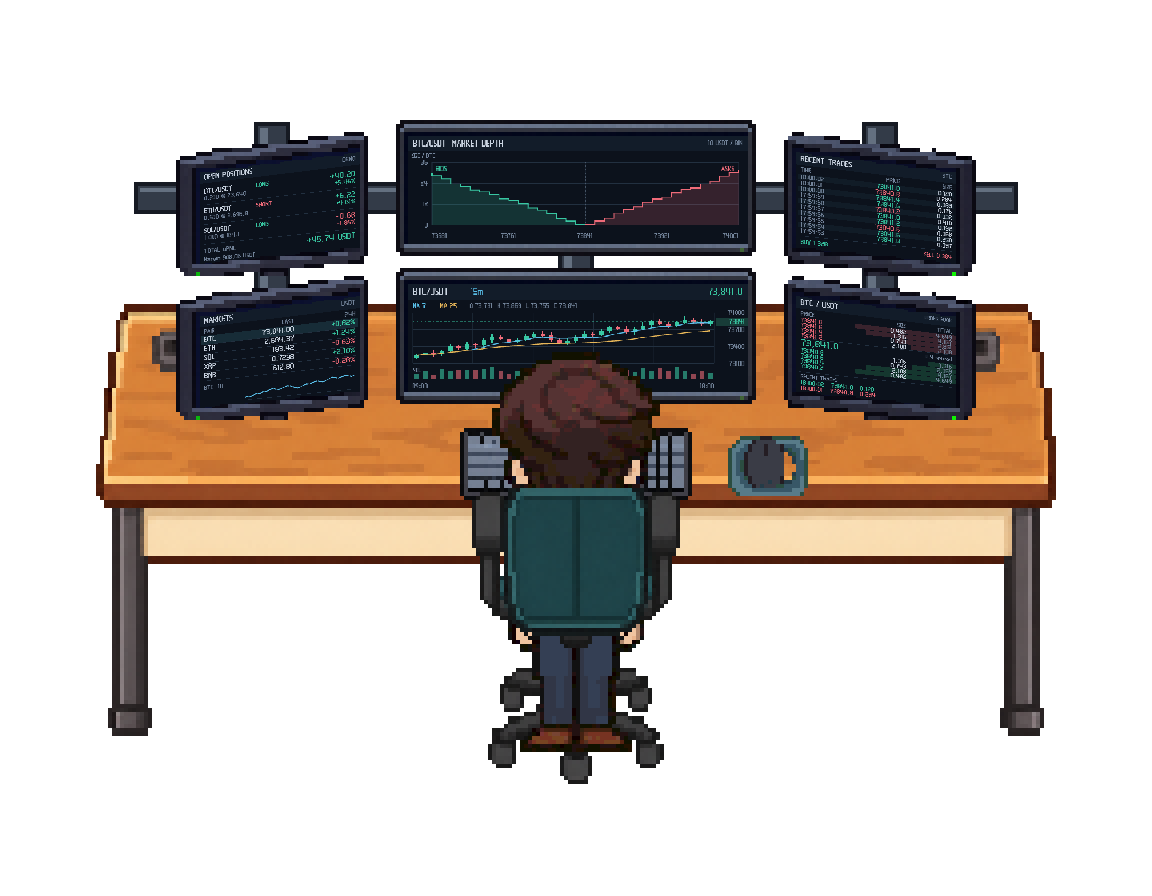
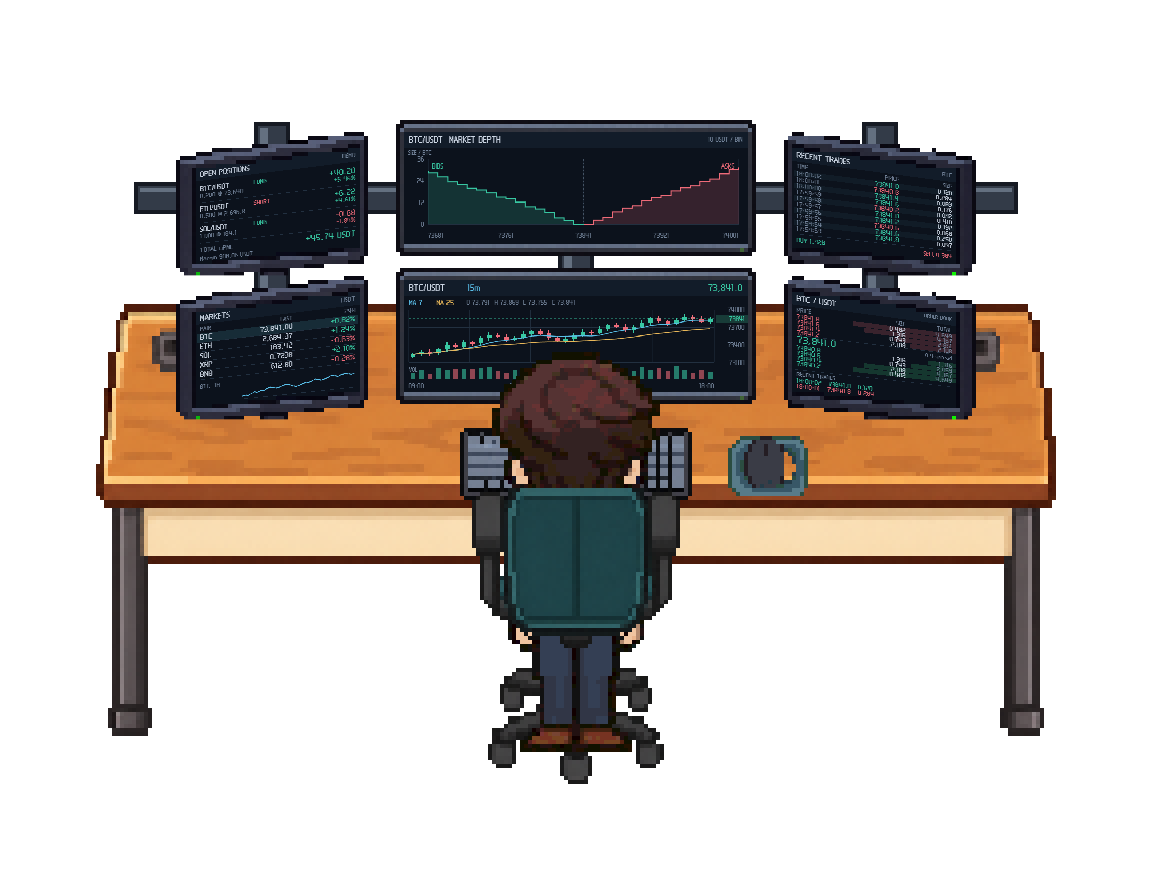
Publish wide game layout, position cards, CoinWorld and aligned monitors

diff --git a/btcoffice/art/furniture/trading-room/assets.js b/btcoffice/art/furniture/trading-room/assets.js
@@ -1,1 +1,1 @@
-window.TRADING_ROOM_ASSETS={"assets": [{"anchor": [128, 126], "facing": "N", "file": "desks/Desk_Trading_N_Full.png", "height": 128, "id": "TR_Desk_Trading_N_Full", "origin": "image_gen", "source": "source/Desk_Trading_N_Full.png", "source_crop": [20, 178, 1731, 598], "width": 256, "preview_only": true}, {"anchor": [32, 86], "facing": "N", "file": "chairs/Chair_Trading_N_Full.png", "height": 88, "id": "TR_Chair_Trading_N_Full", "origin": "image_gen", "source": "source/Chair_Trading_N_Full.png", "source_crop": [233, 630, 603, 789], "width": 64, "preview_only": true}, {"anchor": [32, 86], "facing": "N", "file": "chairs/Chair_Visitor_N_Full.png", "height": 88, "id": "TR_Chair_Visitor_N_Full", "origin": "image_gen", "source": "source/Chair_Visitor_N_Full.png", "source_crop": [143, 612, 782, 773], "width": 64, "preview_only": true}, {"anchor": [32, 46], "canvas_group": "TR_Monitor_Trading_Front", "facing": "S", "file": "monitors/Monitor_Trading_Front_Housing.png", "height": 48, "id": "TR_Monitor_Trading_Front_Housing", "layer": "Housing", "screen_base": "monitors/Monitor_Trading_Front_ScreenBase.png", "screen_mask": "monitors/Monitor_Trading_Front_ScreenMask.png", "screen_quad": [[7, 8], [58, 8], [58, 35], [7, 35]], "width": 64}, {"anchor": [48, 46], "canvas_group": "TR_Monitor_Trading_Wide_Front", "facing": "S", "file": "monitors/Monitor_Trading_Wide_Front_Housing.png", "height": 48, "id": "TR_Monitor_Trading_Wide_Front_Housing", "layer": "Housing", "screen_base": "monitors/Monitor_Trading_Wide_Front_ScreenBase.png", "screen_mask": "monitors/Monitor_Trading_Wide_Front_ScreenMask.png", "screen_quad": [[6, 8], [91, 8], [91, 35], [6, 35]], "width": 96}, {"anchor": [28, 46], "canvas_group": "TR_Monitor_Trading_Angled_SE", "facing": "SE", "file": "monitors/Monitor_Trading_Angled_SE_Housing.png", "height": 48, "id": "TR_Monitor_Trading_Angled_SE_Housing", "layer": "Housing", "screen_base": "monitors/Monitor_Trading_Angled_SE_ScreenBase.png", "screen_mask": "monitors/Monitor_Trading_Angled_SE_ScreenMask.png", "screen_quad": [[7, 9], [47, 14], [47, 37], [7, 33]], "width": 56}, {"anchor": [28, 46], "canvas_group": "TR_Monitor_Trading_Angled_SW", "facing": "SW", "file": "monitors/Monitor_Trading_Angled_SW_Housing.png", "height": 48, "id": "TR_Monitor_Trading_Angled_SW_Housing", "layer": "Housing", "screen_base": "monitors/Monitor_Trading_Angled_SW_ScreenBase.png", "screen_mask": "monitors/Monitor_Trading_Angled_SW_ScreenMask.png", "screen_quad": [[10, 14], [50, 9], [50, 33], [10, 37]], "width": 56}, {"anchor": [32, 22], "facing": "N", "file": "input_devices/Keyboard_Trading_N.png", "height": 24, "id": "TR_Keyboard_Trading_N", "origin": "image_gen", "source": "source/Keyboard_Trading_N.png", "source_crop": [191, 168, 1602, 513], "width": 64}, {"anchor": [320, 222], "canvas_group": "TR_NewsWall", "facing": "S", "file": "wall/NewsWall_Frame.png", "height": 224, "id": "TR_NewsWall_Frame", "layer": "Frame", "screen_base": "wall/NewsWall_ScreenBase.png", "screen_mask": "wall/NewsWall_ScreenMask.png", "screen_quad": [[24, 32], [616, 32], [616, 185], [24, 185]], "width": 640}, {"anchor": [128, 126], "canvas_group": "TR_DESK_N", "facing": "N", "file": "desks/Desk_Trading_N_Desktop.png", "height": 128, "id": "TR_Desk_Trading_N_Desktop", "layer": "Desktop", "width": 256}, {"anchor": [128, 126], "canvas_group": "TR_DESK_N", "facing": "N", "file": "desks/Desk_Trading_N_FrontPanel.png", "height": 128, "id": "TR_Desk_Trading_N_FrontPanel", "layer": "FrontPanel", "width": 256}, {"anchor": [128, 126], "canvas_group": "TR_DESK_N", "facing": "N", "file": "desks/Desk_Trading_N_Legs.png", "height": 128, "id": "TR_Desk_Trading_N_Legs", "layer": "Legs", "width": 256}, {"anchor": [32, 86], "canvas_group": "TR_Chair_Trading_N", "facing": "N", "file": "chairs/Chair_Trading_N_Frame.png", "height": 88, "id": "TR_Chair_Trading_N_Frame", "layer": "Frame", "width": 64}, {"anchor": [32, 86], "canvas_group": "TR_Chair_Trading_N", "facing": "N", "file": "chairs/Chair_Trading_N_Cushion.png", "height": 88, "id": "TR_Chair_Trading_N_Cushion", "layer": "Cushion", "width": 64}, {"anchor": [32, 86], "canvas_group": "TR_Chair_Trading_N", "facing": "N", "file": "chairs/Chair_Trading_N_Backrest.png", "height": 88, "id": "TR_Chair_Trading_N_Backrest", "layer": "Backrest", "width": 64}, {"anchor": [32, 86], "canvas_group": "TR_Chair_Trading_N", "facing": "N", "file": "chairs/Chair_Trading_N_Armrests.png", "height": 88, "id": "TR_Chair_Trading_N_Armrests", "layer": "Armrests", "width": 64}, {"anchor": [32, 86], "canvas_group": "TR_Chair_Visitor_N", "facing": "N", "file": "chairs/Chair_Visitor_N_Frame.png", "height": 88, "id": "TR_Chair_Visitor_N_Frame", "layer": "Frame", "width": 64}, {"anchor": [32, 86], "canvas_group": "TR_Chair_Visitor_N", "facing": "N", "file": "chairs/Chair_Visitor_N_Cushion.png", "height": 88, "id": "TR_Chair_Visitor_N_Cushion", "layer": "Cushion", "width": 64}, {"anchor": [32, 86], "canvas_group": "TR_Chair_Visitor_N", "facing": "N", "file": "chairs/Chair_Visitor_N_Backrest.png", "height": 88, "id": "TR_Chair_Visitor_N_Backrest", "layer": "Backrest", "width": 64}, {"anchor": [32, 86], "canvas_group": "TR_Chair_Visitor_N", "facing": "N", "file": "chairs/Chair_Visitor_N_Armrests.png", "height": 88, "id": "TR_Chair_Visitor_N_Armrests", "layer": "Armrests", "width": 64}, {"anchor": [32, 46], "facing": "S", "file": "monitors/Monitor_Trading_Front_Full.png", "height": 48, "id": "TR_Monitor_Trading_Front_Full", "origin": "image_gen", "preview_only": true, "source": "source/Monitor_Trading_Front_Housing.png", "source_crop": [104, 115, 1240, 873], "width": 64}, {"anchor": [32, 46], "canvas_group": "TR_Monitor_Trading_Front", "facing": "S", "file": "monitors/Monitor_Trading_Front_ScreenMask.png", "height": 48, "id": "TR_Monitor_Trading_Front_ScreenMask", "layer": "ScreenMask", "mask": true, "width": 64}, {"anchor": [32, 46], "canvas_group": "TR_Monitor_Trading_Front", "facing": "S", "file": "monitors/Monitor_Trading_Front_ScreenBase.png", "height": 48, "id": "TR_Monitor_Trading_Front_ScreenBase", "layer": "ScreenBase", "width": 64}, {"anchor": [48, 46], "facing": "S", "file": "monitors/Monitor_Trading_Wide_Front_Full.png", "height": 48, "id": "TR_Monitor_Trading_Wide_Front_Full", "origin": "image_gen", "preview_only": true, "source": "source/Monitor_Trading_Wide_Front_Housing.png", "source_crop": [48, 125, 1678, 685], "width": 96}, {"anchor": [48, 46], "canvas_group": "TR_Monitor_Trading_Wide_Front", "facing": "S", "file": "monitors/Monitor_Trading_Wide_Front_ScreenMask.png", "height": 48, "id": "TR_Monitor_Trading_Wide_Front_ScreenMask", "layer": "ScreenMask", "mask": true, "width": 96}, {"anchor": [48, 46], "canvas_group": "TR_Monitor_Trading_Wide_Front", "facing": "S", "file": "monitors/Monitor_Trading_Wide_Front_ScreenBase.png", "height": 48, "id": "TR_Monitor_Trading_Wide_Front_ScreenBase", "layer": "ScreenBase", "width": 96}, {"anchor": [28, 46], "facing": "SE", "file": "monitors/Monitor_Trading_Angled_SE_Full.png", "height": 48, "id": "TR_Monitor_Trading_Angled_SE_Full", "origin": "image_gen", "preview_only": true, "source": "source/Monitor_Trading_Angled_SE_Housing.png", "source_crop": [153, 143, 1051, 905], "width": 56}, {"anchor": [28, 46], "canvas_group": "TR_Monitor_Trading_Angled_SE", "facing": "SE", "file": "monitors/Monitor_Trading_Angled_SE_ScreenMask.png", "height": 48, "id": "TR_Monitor_Trading_Angled_SE_ScreenMask", "layer": "ScreenMask", "mask": true, "width": 56}, {"anchor": [28, 46], "canvas_group": "TR_Monitor_Trading_Angled_SE", "facing": "SE", "file": "monitors/Monitor_Trading_Angled_SE_ScreenBase.png", "height": 48, "id": "TR_Monitor_Trading_Angled_SE_ScreenBase", "layer": "ScreenBase", "width": 56}, {"anchor": [28, 46], "facing": "SW", "file": "monitors/Monitor_Trading_Angled_SW_Full.png", "height": 48, "id": "TR_Monitor_Trading_Angled_SW_Full", "origin": "image_gen", "preview_only": true, "source": "source/Monitor_Trading_Angled_SW_Housing.png", "source_crop": [155, 145, 1045, 904], "width": 56}, {"anchor": [28, 46], "canvas_group": "TR_Monitor_Trading_Angled_SW", "facing": "SW", "file": "monitors/Monitor_Trading_Angled_SW_ScreenMask.png", "height": 48, "id": "TR_Monitor_Trading_Angled_SW_ScreenMask", "layer": "ScreenMask", "mask": true, "width": 56}, {"anchor": [28, 46], "canvas_group": "TR_Monitor_Trading_Angled_SW", "facing": "SW", "file": "monitors/Monitor_Trading_Angled_SW_ScreenBase.png", "height": 48, "id": "TR_Monitor_Trading_Angled_SW_ScreenBase", "layer": "ScreenBase", "width": 56}, {"anchor": [320, 222], "facing": "S", "file": "wall/NewsWall_Full.png", "height": 224, "id": "TR_NewsWall_Full", "origin": "image_gen", "preview_only": true, "source": "source/NewsWall_Frame.png", "source_crop": [49, 100, 2022, 542], "width": 640}, {"anchor": [320, 222], "canvas_group": "TR_NewsWall", "facing": "S", "file": "wall/NewsWall_ScreenMask.png", "height": 224, "id": "TR_NewsWall_ScreenMask", "layer": "ScreenMask", "mask": true, "width": 640}, {"anchor": [320, 222], "canvas_group": "TR_NewsWall", "facing": "S", "file": "wall/NewsWall_ScreenBase.png", "height": 224, "id": "TR_NewsWall_ScreenBase", "layer": "ScreenBase", "width": 640}, {"anchor": [6, 14], "facing": "N", "file": "input_devices/Mouse_Trading_N.png", "height": 16, "id": "TR_Mouse_Trading_N", "origin": "reused", "source": "res://assets/sprites/props/Mouse_South_Default.png", "width": 12}, {"anchor": [12, 18], "facing": "N", "file": "input_devices/Mousepad_Trading.png", "height": 20, "id": "TR_Mousepad_Trading", "origin": "reused", "source": "res://assets/sprites/props/Mousepad_Top_Default.png", "width": 24}], "filter": "nearest", "layer_groups": [{"full": "desks/Desk_Trading_N_Full.png", "id": "TR_DESK_N", "layers": ["desks/Desk_Trading_N_Desktop.png", "desks/Desk_Trading_N_FrontPanel.png", "desks/Desk_Trading_N_Legs.png"]}, {"behind_actor": ["chairs/Chair_Trading_N_Frame.png", "chairs/Chair_Trading_N_Cushion.png"], "facing": "N", "full": "chairs/Chair_Trading_N_Full.png", "id": "TR_Chair_Trading_N", "in_front_of_actor": ["chairs/Chair_Trading_N_Backrest.png", "chairs/Chair_Trading_N_Armrests.png"], "layers": ["chairs/Chair_Trading_N_Frame.png", "chairs/Chair_Trading_N_Cushion.png", "chairs/Chair_Trading_N_Backrest.png", "chairs/Chair_Trading_N_Armrests.png"], "seat_anchor": [32, 10]}, {"behind_actor": ["chairs/Chair_Visitor_N_Frame.png", "chairs/Chair_Visitor_N_Cushion.png"], "facing": "N", "full": "chairs/Chair_Visitor_N_Full.png", "id": "TR_Chair_Visitor_N", "in_front_of_actor": ["chairs/Chair_Visitor_N_Backrest.png", "chairs/Chair_Visitor_N_Armrests.png"], "layers": ["chairs/Chair_Visitor_N_Frame.png", "chairs/Chair_Visitor_N_Cushion.png", "chairs/Chair_Visitor_N_Backrest.png", "chairs/Chair_Visitor_N_Armrests.png"], "seat_anchor": [32, 30]}, {"full": "monitors/Monitor_Trading_Front_Full.png", "id": "TR_Monitor_Trading_Front", "layers": ["monitors/Monitor_Trading_Front_Housing.png", "monitors/Monitor_Trading_Front_ScreenBase.png"], "screen_mask": "monitors/Monitor_Trading_Front_ScreenMask.png", "screen_quad": [[7, 8], [58, 8], [58, 35], [7, 35]]}, {"full": "monitors/Monitor_Trading_Wide_Front_Full.png", "id": "TR_Monitor_Trading_Wide_Front", "layers": ["monitors/Monitor_Trading_Wide_Front_Housing.png", "monitors/Monitor_Trading_Wide_Front_ScreenBase.png"], "screen_mask": "monitors/Monitor_Trading_Wide_Front_ScreenMask.png", "screen_quad": [[6, 8], [91, 8], [91, 35], [6, 35]]}, {"full": "monitors/Monitor_Trading_Angled_SE_Full.png", "id": "TR_Monitor_Trading_Angled_SE", "layers": ["monitors/Monitor_Trading_Angled_SE_Housing.png", "monitors/Monitor_Trading_Angled_SE_ScreenBase.png"], "screen_mask": "monitors/Monitor_Trading_Angled_SE_ScreenMask.png", "screen_quad": [[7, 9], [47, 14], [47, 37], [7, 33]]}, {"full": "monitors/Monitor_Trading_Angled_SW_Full.png", "id": "TR_Monitor_Trading_Angled_SW", "layers": ["monitors/Monitor_Trading_Angled_SW_Housing.png", "monitors/Monitor_Trading_Angled_SW_ScreenBase.png"], "screen_mask": "monitors/Monitor_Trading_Angled_SW_ScreenMask.png", "screen_quad": [[10, 14], [50, 9], [50, 33], [10, 37]]}, {"full": "wall/NewsWall_Full.png", "id": "TR_NewsWall", "layers": ["wall/NewsWall_Frame.png", "wall/NewsWall_ScreenBase.png"], "screen_mask": "wall/NewsWall_ScreenMask.png", "screen_quad": [[24, 32], [616, 32], [616, 185], [24, 185]]}], "mipmaps": false, "pack": "Trading Room", "version": 1};
+window.TRADING_ROOM_ASSETS={"assets":[{"anchor":[128,126],"facing":"N","file":"desks/Desk_Trading_N_Full.png","height":128,"id":"TR_Desk_Trading_N_Full","origin":"image_gen","preview_only":true,"source":"source/Desk_Trading_N_Full.png","source_crop":[20,178,1731,598],"width":256},{"anchor":[32,86],"facing":"N","file":"chairs/Chair_Trading_N_Full.png","height":88,"id":"TR_Chair_Trading_N_Full","origin":"image_gen","preview_only":true,"source":"source/Chair_Trading_N_Full.png","source_crop":[233,630,603,789],"width":64},{"anchor":[32,86],"facing":"N","file":"chairs/Chair_Visitor_N_Full.png","height":88,"id":"TR_Chair_Visitor_N_Full","origin":"image_gen","preview_only":true,"source":"source/Chair_Visitor_N_Full.png","source_crop":[143,612,782,773],"width":64},{"anchor":[32,46],"canvas_group":"TR_Monitor_Trading_Front","facing":"S","file":"monitors/Monitor_Trading_Front_Housing.png","height":48,"id":"TR_Monitor_Trading_Front_Housing","layer":"Housing","screen_base":"monitors/Monitor_Trading_Front_ScreenBase.png","screen_mask":"monitors/Monitor_Trading_Front_ScreenMask.png","screen_quad":[[6,7],[58,7],[58,34],[6,34]],"width":64},{"anchor":[48,46],"canvas_group":"TR_Monitor_Trading_Wide_Front","facing":"S","file":"monitors/Monitor_Trading_Wide_Front_Housing.png","height":48,"id":"TR_Monitor_Trading_Wide_Front_Housing","layer":"Housing","screen_base":"monitors/Monitor_Trading_Wide_Front_ScreenBase.png","screen_mask":"monitors/Monitor_Trading_Wide_Front_ScreenMask.png","screen_quad":[[5,7],[91,7],[91,35],[5,35]],"width":96},{"anchor":[28,46],"canvas_group":"TR_Monitor_Trading_Angled_SE","facing":"SE","file":"monitors/Monitor_Trading_Angled_SE_Housing.png","height":48,"id":"TR_Monitor_Trading_Angled_SE_Housing","layer":"Housing","screen_base":"monitors/Monitor_Trading_Angled_SE_ScreenBase.png","screen_mask":"monitors/Monitor_Trading_Angled_SE_ScreenMask.png","screen_quad":[[6,8.026],[47,13.633],[47,36.867],[6,32.596]],"width":56},{"anchor":[28,46],"canvas_group":"TR_Monitor_Trading_Angled_SW","facing":"SW","file":"monitors/Monitor_Trading_Angled_SW_Housing.png","height":48,"id":"TR_Monitor_Trading_Angled_SW_Housing","layer":"Housing","screen_base":"monitors/Monitor_Trading_Angled_SW_ScreenBase.png","screen_mask":"monitors/Monitor_Trading_Angled_SW_ScreenMask.png","screen_quad":[[9,13.283],[50,8.083],[50,32.572],[9,36.843]],"width":56},{"anchor":[32,22],"facing":"N","file":"input_devices/Keyboard_Trading_N.png","height":24,"id":"TR_Keyboard_Trading_N","origin":"image_gen","source":"source/Keyboard_Trading_N.png","source_crop":[191,168,1602,513],"width":64},{"anchor":[320,222],"canvas_group":"TR_NewsWall","facing":"S","file":"wall/NewsWall_Frame.png","height":224,"id":"TR_NewsWall_Frame","layer":"Frame","screen_base":"wall/NewsWall_ScreenBase.png","screen_mask":"wall/NewsWall_ScreenMask.png","screen_quad":[[24,32],[616,32],[616,185],[24,185]],"width":640},{"anchor":[128,126],"canvas_group":"TR_DESK_N","facing":"N","file":"desks/Desk_Trading_N_Desktop.png","height":128,"id":"TR_Desk_Trading_N_Desktop","layer":"Desktop","width":256},{"anchor":[128,126],"canvas_group":"TR_DESK_N","facing":"N","file":"desks/Desk_Trading_N_FrontPanel.png","height":128,"id":"TR_Desk_Trading_N_FrontPanel","layer":"FrontPanel","width":256},{"anchor":[128,126],"canvas_group":"TR_DESK_N","facing":"N","file":"desks/Desk_Trading_N_Legs.png","height":128,"id":"TR_Desk_Trading_N_Legs","layer":"Legs","width":256},{"anchor":[32,86],"canvas_group":"TR_Chair_Trading_N","facing":"N","file":"chairs/Chair_Trading_N_Frame.png","height":88,"id":"TR_Chair_Trading_N_Frame","layer":"Frame","width":64},{"anchor":[32,86],"canvas_group":"TR_Chair_Trading_N","facing":"N","file":"chairs/Chair_Trading_N_Cushion.png","height":88,"id":"TR_Chair_Trading_N_Cushion","layer":"Cushion","width":64},{"anchor":[32,86],"canvas_group":"TR_Chair_Trading_N","facing":"N","file":"chairs/Chair_Trading_N_Backrest.png","height":88,"id":"TR_Chair_Trading_N_Backrest","layer":"Backrest","width":64},{"anchor":[32,86],"canvas_group":"TR_Chair_Trading_N","facing":"N","file":"chairs/Chair_Trading_N_Armrests.png","height":88,"id":"TR_Chair_Trading_N_Armrests","layer":"Armrests","width":64},{"anchor":[32,86],"canvas_group":"TR_Chair_Visitor_N","facing":"N","file":"chairs/Chair_Visitor_N_Frame.png","height":88,"id":"TR_Chair_Visitor_N_Frame","layer":"Frame","width":64},{"anchor":[32,86],"canvas_group":"TR_Chair_Visitor_N","facing":"N","file":"chairs/Chair_Visitor_N_Cushion.png","height":88,"id":"TR_Chair_Visitor_N_Cushion","layer":"Cushion","width":64},{"anchor":[32,86],"canvas_group":"TR_Chair_Visitor_N","facing":"N","file":"chairs/Chair_Visitor_N_Backrest.png","height":88,"id":"TR_Chair_Visitor_N_Backrest","layer":"Backrest","width":64},{"anchor":[32,86],"canvas_group":"TR_Chair_Visitor_N","facing":"N","file":"chairs/Chair_Visitor_N_Armrests.png","height":88,"id":"TR_Chair_Visitor_N_Armrests","layer":"Armrests","width":64},{"anchor":[32,46],"facing":"S","file":"monitors/Monitor_Trading_Front_Full.png","height":48,"id":"TR_Monitor_Trading_Front_Full","origin":"image_gen","preview_only":true,"source":"source/Monitor_Trading_Front_Housing.png","source_crop":[104,115,1240,873],"width":64},{"anchor":[32,46],"canvas_group":"TR_Monitor_Trading_Front","facing":"S","file":"monitors/Monitor_Trading_Front_ScreenMask.png","height":48,"id":"TR_Monitor_Trading_Front_ScreenMask","layer":"ScreenMask","mask":true,"width":64},{"anchor":[32,46],"canvas_group":"TR_Monitor_Trading_Front","facing":"S","file":"monitors/Monitor_Trading_Front_ScreenBase.png","height":48,"id":"TR_Monitor_Trading_Front_ScreenBase","layer":"ScreenBase","width":64},{"anchor":[48,46],"facing":"S","file":"monitors/Monitor_Trading_Wide_Front_Full.png","height":48,"id":"TR_Monitor_Trading_Wide_Front_Full","origin":"image_gen","preview_only":true,"source":"source/Monitor_Trading_Wide_Front_Housing.png","source_crop":[48,125,1678,685],"width":96},{"anchor":[48,46],"canvas_group":"TR_Monitor_Trading_Wide_Front","facing":"S","file":"monitors/Monitor_Trading_Wide_Front_ScreenMask.png","height":48,"id":"TR_Monitor_Trading_Wide_Front_ScreenMask","layer":"ScreenMask","mask":true,"width":96},{"anchor":[48,46],"canvas_group":"TR_Monitor_Trading_Wide_Front","facing":"S","file":"monitors/Monitor_Trading_Wide_Front_ScreenBase.png","height":48,"id":"TR_Monitor_Trading_Wide_Front_ScreenBase","layer":"ScreenBase","width":96},{"anchor":[28,46],"facing":"SE","file":"monitors/Monitor_Trading_Angled_SE_Full.png","height":48,"id":"TR_Monitor_Trading_Angled_SE_Full","origin":"image_gen","preview_only":true,"source":"source/Monitor_Trading_Angled_SE_Housing.png","source_crop":[153,143,1051,905],"width":56},{"anchor":[28,46],"canvas_group":"TR_Monitor_Trading_Angled_SE","facing":"SE","file":"monitors/Monitor_Trading_Angled_SE_ScreenMask.png","height":48,"id":"TR_Monitor_Trading_Angled_SE_ScreenMask","layer":"ScreenMask","mask":true,"width":56},{"anchor":[28,46],"canvas_group":"TR_Monitor_Trading_Angled_SE","facing":"SE","file":"monitors/Monitor_Trading_Angled_SE_ScreenBase.png","height":48,"id":"TR_Monitor_Trading_Angled_SE_ScreenBase","layer":"ScreenBase","width":56},{"anchor":[28,46],"facing":"SW","file":"monitors/Monitor_Trading_Angled_SW_Full.png","height":48,"id":"TR_Monitor_Trading_Angled_SW_Full","origin":"image_gen","preview_only":true,"source":"source/Monitor_Trading_Angled_SW_Housing.png","source_crop":[155,145,1045,904],"width":56},{"anchor":[28,46],"canvas_group":"TR_Monitor_Trading_Angled_SW","facing":"SW","file":"monitors/Monitor_Trading_Angled_SW_ScreenMask.png","height":48,"id":"TR_Monitor_Trading_Angled_SW_ScreenMask","layer":"ScreenMask","mask":true,"width":56},{"anchor":[28,46],"canvas_group":"TR_Monitor_Trading_Angled_SW","facing":"SW","file":"monitors/Monitor_Trading_Angled_SW_ScreenBase.png","height":48,"id":"TR_Monitor_Trading_Angled_SW_ScreenBase","layer":"ScreenBase","width":56},{"anchor":[320,222],"facing":"S","file":"wall/NewsWall_Full.png","height":224,"id":"TR_NewsWall_Full","origin":"image_gen","preview_only":true,"source":"source/NewsWall_Frame.png","source_crop":[49,100,2022,542],"width":640},{"anchor":[320,222],"canvas_group":"TR_NewsWall","facing":"S","file":"wall/NewsWall_ScreenMask.png","height":224,"id":"TR_NewsWall_ScreenMask","layer":"ScreenMask","mask":true,"width":640},{"anchor":[320,222],"canvas_group":"TR_NewsWall","facing":"S","file":"wall/NewsWall_ScreenBase.png","height":224,"id":"TR_NewsWall_ScreenBase","layer":"ScreenBase","width":640},{"anchor":[6,14],"facing":"N","file":"input_devices/Mouse_Trading_N.png","height":16,"id":"TR_Mouse_Trading_N","origin":"reused","source":"res://assets/sprites/props/Mouse_South_Default.png","width":12},{"anchor":[12,18],"facing":"N","file":"input_devices/Mousepad_Trading.png","height":20,"id":"TR_Mousepad_Trading","origin":"reused","source":"res://assets/sprites/props/Mousepad_Top_Default.png","width":24}],"layer_groups":[{"full":"desks/Desk_Trading_N_Full.png","id":"TR_DESK_N","layers":["desks/Desk_Trading_N_Desktop.png","desks/Desk_Trading_N_FrontPanel.png","desks/Desk_Trading_N_Legs.png"]},{"behind_actor":["chairs/Chair_Trading_N_Frame.png","chairs/Chair_Trading_N_Cushion.png"],"facing":"N","full":"chairs/Chair_Trading_N_Full.png","id":"TR_Chair_Trading_N","in_front_of_actor":["chairs/Chair_Trading_N_Backrest.png","chairs/Chair_Trading_N_Armrests.png"],"layers":["chairs/Chair_Trading_N_Frame.png","chairs/Chair_Trading_N_Cushion.png","chairs/Chair_Trading_N_Backrest.png","chairs/Chair_Trading_N_Armrests.png"],"seat_anchor":[32,10]},{"behind_actor":["chairs/Chair_Visitor_N_Frame.png","chairs/Chair_Visitor_N_Cushion.png"],"facing":"N","full":"chairs/Chair_Visitor_N_Full.png","id":"TR_Chair_Visitor_N","in_front_of_actor":["chairs/Chair_Visitor_N_Backrest.png","chairs/Chair_Visitor_N_Armrests.png"],"layers":["chairs/Chair_Visitor_N_Frame.png","chairs/Chair_Visitor_N_Cushion.png","chairs/Chair_Visitor_N_Backrest.png","chairs/Chair_Visitor_N_Armrests.png"],"seat_anchor":[32,30]},{"full":"monitors/Monitor_Trading_Front_Full.png","id":"TR_Monitor_Trading_Front","layers":["monitors/Monitor_Trading_Front_Housing.png","monitors/Monitor_Trading_Front_ScreenBase.png"],"screen_mask":"monitors/Monitor_Trading_Front_ScreenMask.png","screen_quad":[[6,7],[58,7],[58,34],[6,34]]},{"full":"monitors/Monitor_Trading_Wide_Front_Full.png","id":"TR_Monitor_Trading_Wide_Front","layers":["monitors/Monitor_Trading_Wide_Front_Housing.png","monitors/Monitor_Trading_Wide_Front_ScreenBase.png"],"screen_mask":"monitors/Monitor_Trading_Wide_Front_ScreenMask.png","screen_quad":[[5,7],[91,7],[91,35],[5,35]]},{"full":"monitors/Monitor_Trading_Angled_SE_Full.png","id":"TR_Monitor_Trading_Angled_SE","layers":["monitors/Monitor_Trading_Angled_SE_Housing.png","monitors/Monitor_Trading_Angled_SE_ScreenBase.png"],"screen_mask":"monitors/Monitor_Trading_Angled_SE_ScreenMask.png","screen_quad":[[6,8.026],[47,13.633],[47,36.867],[6,32.596]]},{"full":"monitors/Monitor_Trading_Angled_SW_Full.png","id":"TR_Monitor_Trading_Angled_SW","layers":["monitors/Monitor_Trading_Angled_SW_Housing.png","monitors/Monitor_Trading_Angled_SW_ScreenBase.png"],"screen_mask":"monitors/Monitor_Trading_Angled_SW_ScreenMask.png","screen_quad":[[9,13.283],[50,8.083],[50,32.572],[9,36.843]]},{"full":"wall/NewsWall_Full.png","id":"TR_NewsWall","layers":["wall/NewsWall_Frame.png","wall/NewsWall_ScreenBase.png"],"screen_mask":"wall/NewsWall_ScreenMask.png","screen_quad":[[24,32],[616,32],[616,185],[24,185]]}]};

diff --git a/btcoffice/art/furniture/trading-room/index.html b/btcoffice/art/furniture/trading-room/index.html
@@ -18,17 +18,17 @@
 <h2>6대 모니터 거치대</h2><p class="section-note">3열 × 2단 구성입니다. 각 화면은 공용 거치대에 장착됩니다.</p><div class="grid" id="rig-assets"></div>
 <h2>개별 가구</h2><p class="section-note">이미지를 눌러 투명 PNG를 열 수 있습니다. 각 이름과 규격은 metadata/assets.json에서 관리합니다.</p><div class="grid" id="assets"></div>
 <h2>분리 레이어</h2><p class="section-note">같은 가구의 부품들은 동일한 캔버스와 기준점을 사용합니다. Full은 확인용 합성본이므로 부품과 동시에 그리지 않습니다.</p><div class="grid" id="parts"></div>
-<footer>BTC Office · Trading Room 가구 미리보기 · 각 이미지를 눌러 투명 PNG를 내려받을 수 있습니다.</footer>
+<footer>분류: 기존 furnitures → Trading Room · 생성 원본: source/ · 배치/화면 영역: metadata/ · 게임 방 연결과 북향 착석 동작은 별도 작업</footer>
 </main>
-<script src="assets.js"></script>
-<script src="trading-screens.js?v=20261112-six"></script>
-<script src="trading-rig.js?v=20261112-six"></script>
+<script src="assets.js?v=20261113-corners"></script>
+<script src="trading-screens.js?v=20261113-corners"></script>
+<script src="trading-rig.js?v=20261113-corners"></script>
 <script>
 'use strict';
 const base='./', images=new Map(),data=window.TRADING_ROOM_ASSETS, canvas=document.getElementById('assembly'),ctx=canvas.getContext('2d');
 const titles={'Desk_Trading_N_Full':'트레이딩 책상','Chair_Trading_N_Full':'북향 작업 의자','Chair_Visitor_N_Full':'북향 관전 의자','Monitor_Trading_Front_Housing':'정면 모니터','Monitor_Trading_Wide_Front_Housing':'와이드 모니터','Monitor_Trading_Angled_SE_Housing':'오른쪽 측면 모니터','Monitor_Trading_Angled_SW_Housing':'왼쪽 측면 모니터','Keyboard_Trading_N':'트레이딩 키보드','Mouse_Trading_N':'마우스 · 기존 리소스','Mousepad_Trading':'마우스패드 · 기존 리소스','NewsWall_Frame':'뉴스 전광판'};
 const screenCache=new Map(),textureCache=new Map();
-function card(a){let name=a.file.split('/').pop().replace('.png','');const article=document.createElement('article');article.className='asset';const href=encodeURI(base+a.file);article.innerHTML=`<a class="thumb" href="${href}" target="_blank"><img src="${href}" style="width:${Math.min(a.width*2,260)}px" alt="${name}"></a><div class="info"><strong>${titles[name]||titles[name.replace('_Full','_Housing')]||(name==='NewsWall_Full'?'뉴스 전광판':a.layer)||name}</strong><code>${name}</code><span>${a.width} × ${a.height}</span> · <a href="${href}" download>PNG</a></div>`;return article;}
+function card(a){let name=a.file.split('/').pop().replace('.png','');const article=document.createElement('article');article.className='asset';const href=encodeURI(base+a.file)+'?v=20261113-corners';article.innerHTML=`<a class="thumb" href="${href}" target="_blank"><img src="${href}" style="width:${Math.min(a.width*2,260)}px" alt="${name}"></a><div class="info"><strong>${titles[name]||titles[name.replace('_Full','_Housing')]||(name==='NewsWall_Full'?'뉴스 전광판':a.layer)||name}</strong><code>${name}</code><span>${a.width} × ${a.height}</span> · <a href="${href}" download>PNG</a></div>`;return article;}
 for(const a of data.assets)(a.origin?document.getElementById('assets'):document.getElementById('parts')).append(card(a));
 function draw(file,x,y){const img=images.get(file);if(img)ctx.drawImage(img,x,y);}
 function texture(kind,asset){const w=['chart','depth'].includes(kind)?(asset.width>=90?680:408):320,h=['chart','depth'].includes(kind)?216:224,key=[kind,w,h].join(':');if(!textureCache.has(key))textureCache.set(key,TradingScreens.createTexture(kind,w,h));return textureCache.get(key);}
@@ -44,7 +44,7 @@ if(document.getElementById('reference').checked){const im=images.get('character'
 if(showChair){draw('chairs/Chair_Trading_N_Backrest.png',chairX,chairY);draw('chairs/Chair_Trading_N_Armrests.png',chairX,chairY);}detail();}
 document.querySelectorAll('select,input').forEach(e=>e.addEventListener('change',render));document.getElementById('background').onclick=function(){const light=document.getElementById('stage').classList.toggle('light');this.setAttribute('aria-pressed',light);this.textContent=light?'어두운 배경':'밝은 배경';};
 const loads=data.assets.map(a=>({key:a.file,url:base+a.file}));loads.push({key:TradingRig.rack.file,url:base+TradingRig.rack.file});loads.push({key:'character',url:'reference/CH01_North_Standing_Base.png'});
-Promise.all([document.fonts.ready,...loads.map(a=>new Promise((resolve,reject)=>{const img=new Image();img.onload=()=>{images.set(a.key,img);resolve()};img.onerror=()=>reject(Error(a.url));img.src=encodeURI(a.url)}))]).then(()=>{render();for(const a of data.assets.filter(a=>a.file.startsWith('monitors/')&&a.file.endsWith('_Full.png'))){const file=a.file.replace('_Full.png','_Housing.png'),kind=file.includes('_SE_')?'book':file.includes('_SW_')?'markets':'chart',picture=monitorCanvas(file,kind,4),img=document.querySelector(`img[alt="${a.file.split('/').pop().replace('.png','')}"]`);if(img){img.src=picture.toDataURL();const link=img.closest('a');link.href=img.src;link.download=a.file.split('/').pop().replace('_Full.png','_Display.png');}}rigCards();window.__artReady=true}).catch(e=>{console.error(e);window.__artError=String(e)});
+Promise.all([document.fonts.ready,...loads.map(a=>new Promise((resolve,reject)=>{const img=new Image();img.onload=()=>{images.set(a.key,img);resolve()};img.onerror=()=>reject(Error(a.url));img.src=encodeURI(a.url)+'?v=20261113-corners'}))]).then(()=>{render();for(const a of data.assets.filter(a=>a.file.startsWith('monitors/')&&a.file.endsWith('_Full.png'))){const file=a.file.replace('_Full.png','_Housing.png'),kind=file.includes('_SE_')?'book':file.includes('_SW_')?'markets':'chart',picture=monitorCanvas(file,kind,4),img=document.querySelector(`img[alt="${a.file.split('/').pop().replace('.png','')}"]`);if(img){img.src=picture.toDataURL();const link=img.closest('a');link.href=img.src;link.download=a.file.split('/').pop().replace('_Full.png','_Display.png');}}rigCards();window.__artReady=true}).catch(e=>{console.error(e);window.__artError=String(e)});
 function rigCanvas(scale=4,blank=false){const out=document.createElement('canvas');out.width=256*scale;out.height=112*scale;const c=out.getContext('2d');c.imageSmoothingEnabled=false;c.drawImage(images.get(TradingRig.rack.file),0,0,out.width,out.height);for(const slot of TradingRig.slots){const a=data.assets.find(a=>a.file===slot.file);c.drawImage(monitorCanvas(slot.file,slot.kind,scale,blank,true),slot.position[0]*scale,(slot.position[1]+36)*scale);}return out;}
 function rigCards(){const grid=document.getElementById('rig-assets');for(const [title,picture,name]of [['6대 · 차트 포함',rigCanvas(4),'MonitorArray_3x2_Display.png'],['6대 · 빈 화면',rigCanvas(1,true),'MonitorArray_3x2_Blank.png']]){const a=document.createElement('article');a.className='asset';const url=picture.toDataURL();a.innerHTML=`<a class="thumb" href="${url}" download="${name}"><img src="${url}" alt="${title}"></a><div class="info"><strong>${title}</strong><code>${name}</code><a href="${url}" download="${name}">PNG 저장</a></div>`;grid.append(a);}const a=document.createElement('article');a.className='asset';a.innerHTML=`<a class="thumb" href="${encodeURI(base+TradingRig.rack.file)}"><img src="${encodeURI(base+TradingRig.rack.file)}" alt="공용 거치대"></a><div class="info"><strong>3열 × 2단 공용 거치대</strong><code>MonitorRack_3x2</code><span>256 × 112</span></div>`;grid.append(a);}
 window.TradingRoomPreview={monitorCanvas,texture,images,data,rigCanvas};

diff --git a/btcoffice/game/index.html b/btcoffice/game/index.html
@@ -91,7 +91,7 @@ body {
 }
 		</style>
 
-	<meta name="btc-build-id" content="20261113-d7463e7571">
+	<meta name="btc-build-id" content="20261113-ec35390869">
 <script src="./config.js"></script>
 </head>
 	<body>
@@ -104,14 +104,14 @@ body {
 		</noscript>
 
 		<div id="status">
-			<img id="status-splash" class="show-image--true fullsize--true use-filter--true" src="./game-20261113-d7463e7571.png" alt="">
+			<img id="status-splash" class="show-image--true fullsize--true use-filter--true" src="./game-20261113-ec35390869.png" alt="">
 			<progress id="status-progress"></progress>
 			<div id="status-notice"></div>
 		</div>
 
-		<script src="./game-20261113-d7463e7571.js"></script>
+		<script src="./game-20261113-ec35390869.js"></script>
 		<script>
-const GODOT_CONFIG = {"args":[],"canvasResizePolicy":2,"emscriptenPoolSize":8,"ensureCrossOriginIsolationHeaders":true,"executable":"game-20261113-d7463e7571","experimentalVK":false,"fileSizes":{"game-20261113-d7463e7571.pck":33948412,"game-20261113-d7463e7571.wasm":39514754},"focusCanvas":true,"gdextensionLibs":[],"godotPoolSize":4};
+const GODOT_CONFIG = {"args":[],"canvasResizePolicy":2,"emscriptenPoolSize":8,"ensureCrossOriginIsolationHeaders":true,"executable":"game-20261113-ec35390869","experimentalVK":false,"fileSizes":{"game-20261113-ec35390869.pck":34043448,"game-20261113-ec35390869.wasm":39514754},"focusCanvas":true,"gdextensionLibs":[],"godotPoolSize":4};
 const GODOT_THREADS_ENABLED = false;
 const engine = new Engine(GODOT_CONFIG);
 

diff --git a/btcoffice/art/furniture/trading-room/trading-screens.js b/btcoffice/art/furniture/trading-room/trading-screens.js
@@ -107,7 +107,7 @@
   function project(texture,asset,mask,scale){
     const out=makeCanvas(asset.width*scale,asset.height*scale),c=out.getContext('2d'),pixels=c.createImageData(out.width,out.height),input=texture.getContext('2d').getImageData(0,0,texture.width,texture.height),map=inverse(homography(asset.screen_quad));
     for(let y=0;y<out.height;y++)for(let x=0;x<out.width;x++){
-      const[u,v]=point(map,(x+.5)/scale,(y+.5)/scale);if(u<0||u>=1||v<0||v>=1)continue;
+      const[px,py]=point(map,(x+.5)/scale,(y+.5)/scale),u=Math.max(0,Math.min(1,px)),v=Math.max(0,Math.min(1,py));
       const sx=Math.min(texture.width-1,Math.floor(u*texture.width)),sy=Math.min(texture.height-1,Math.floor(v*texture.height)),from=(sy*texture.width+sx)*4,to=(y*out.width+x)*4;
       pixels.data[to]=input.data[from];pixels.data[to+1]=input.data[from+1];pixels.data[to+2]=input.data[from+2];pixels.data[to+3]=255;
     }
